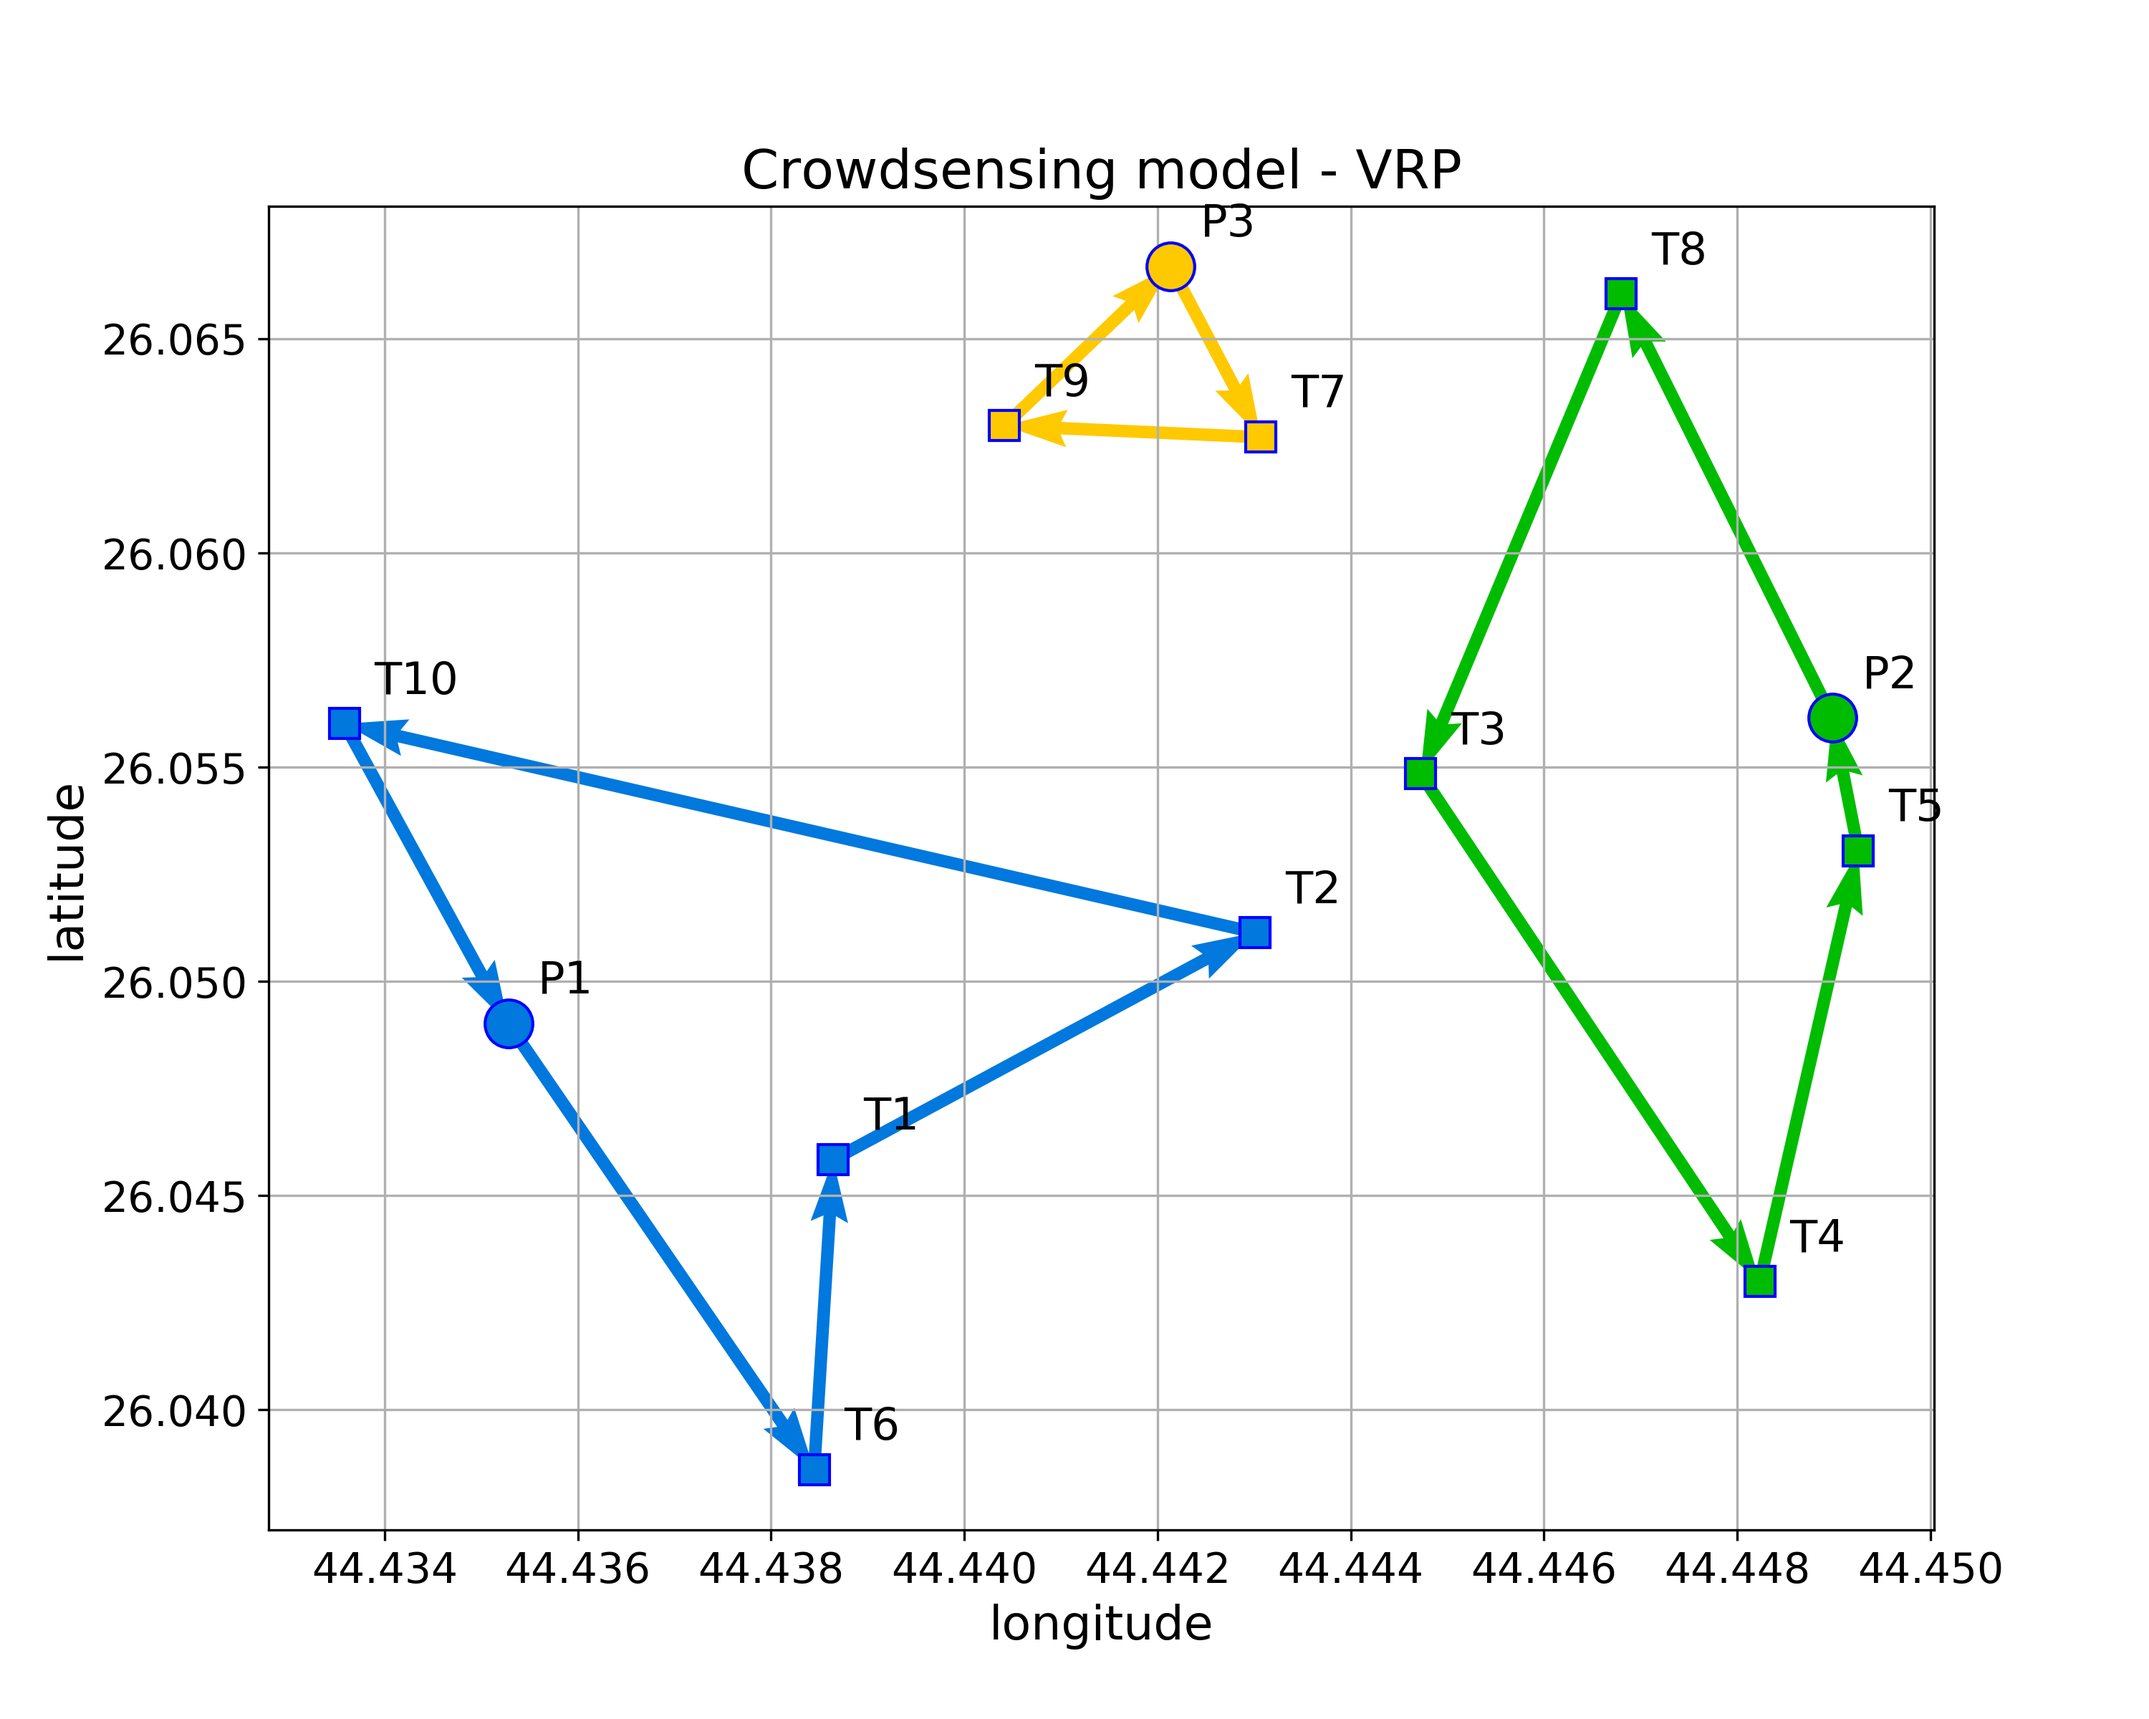
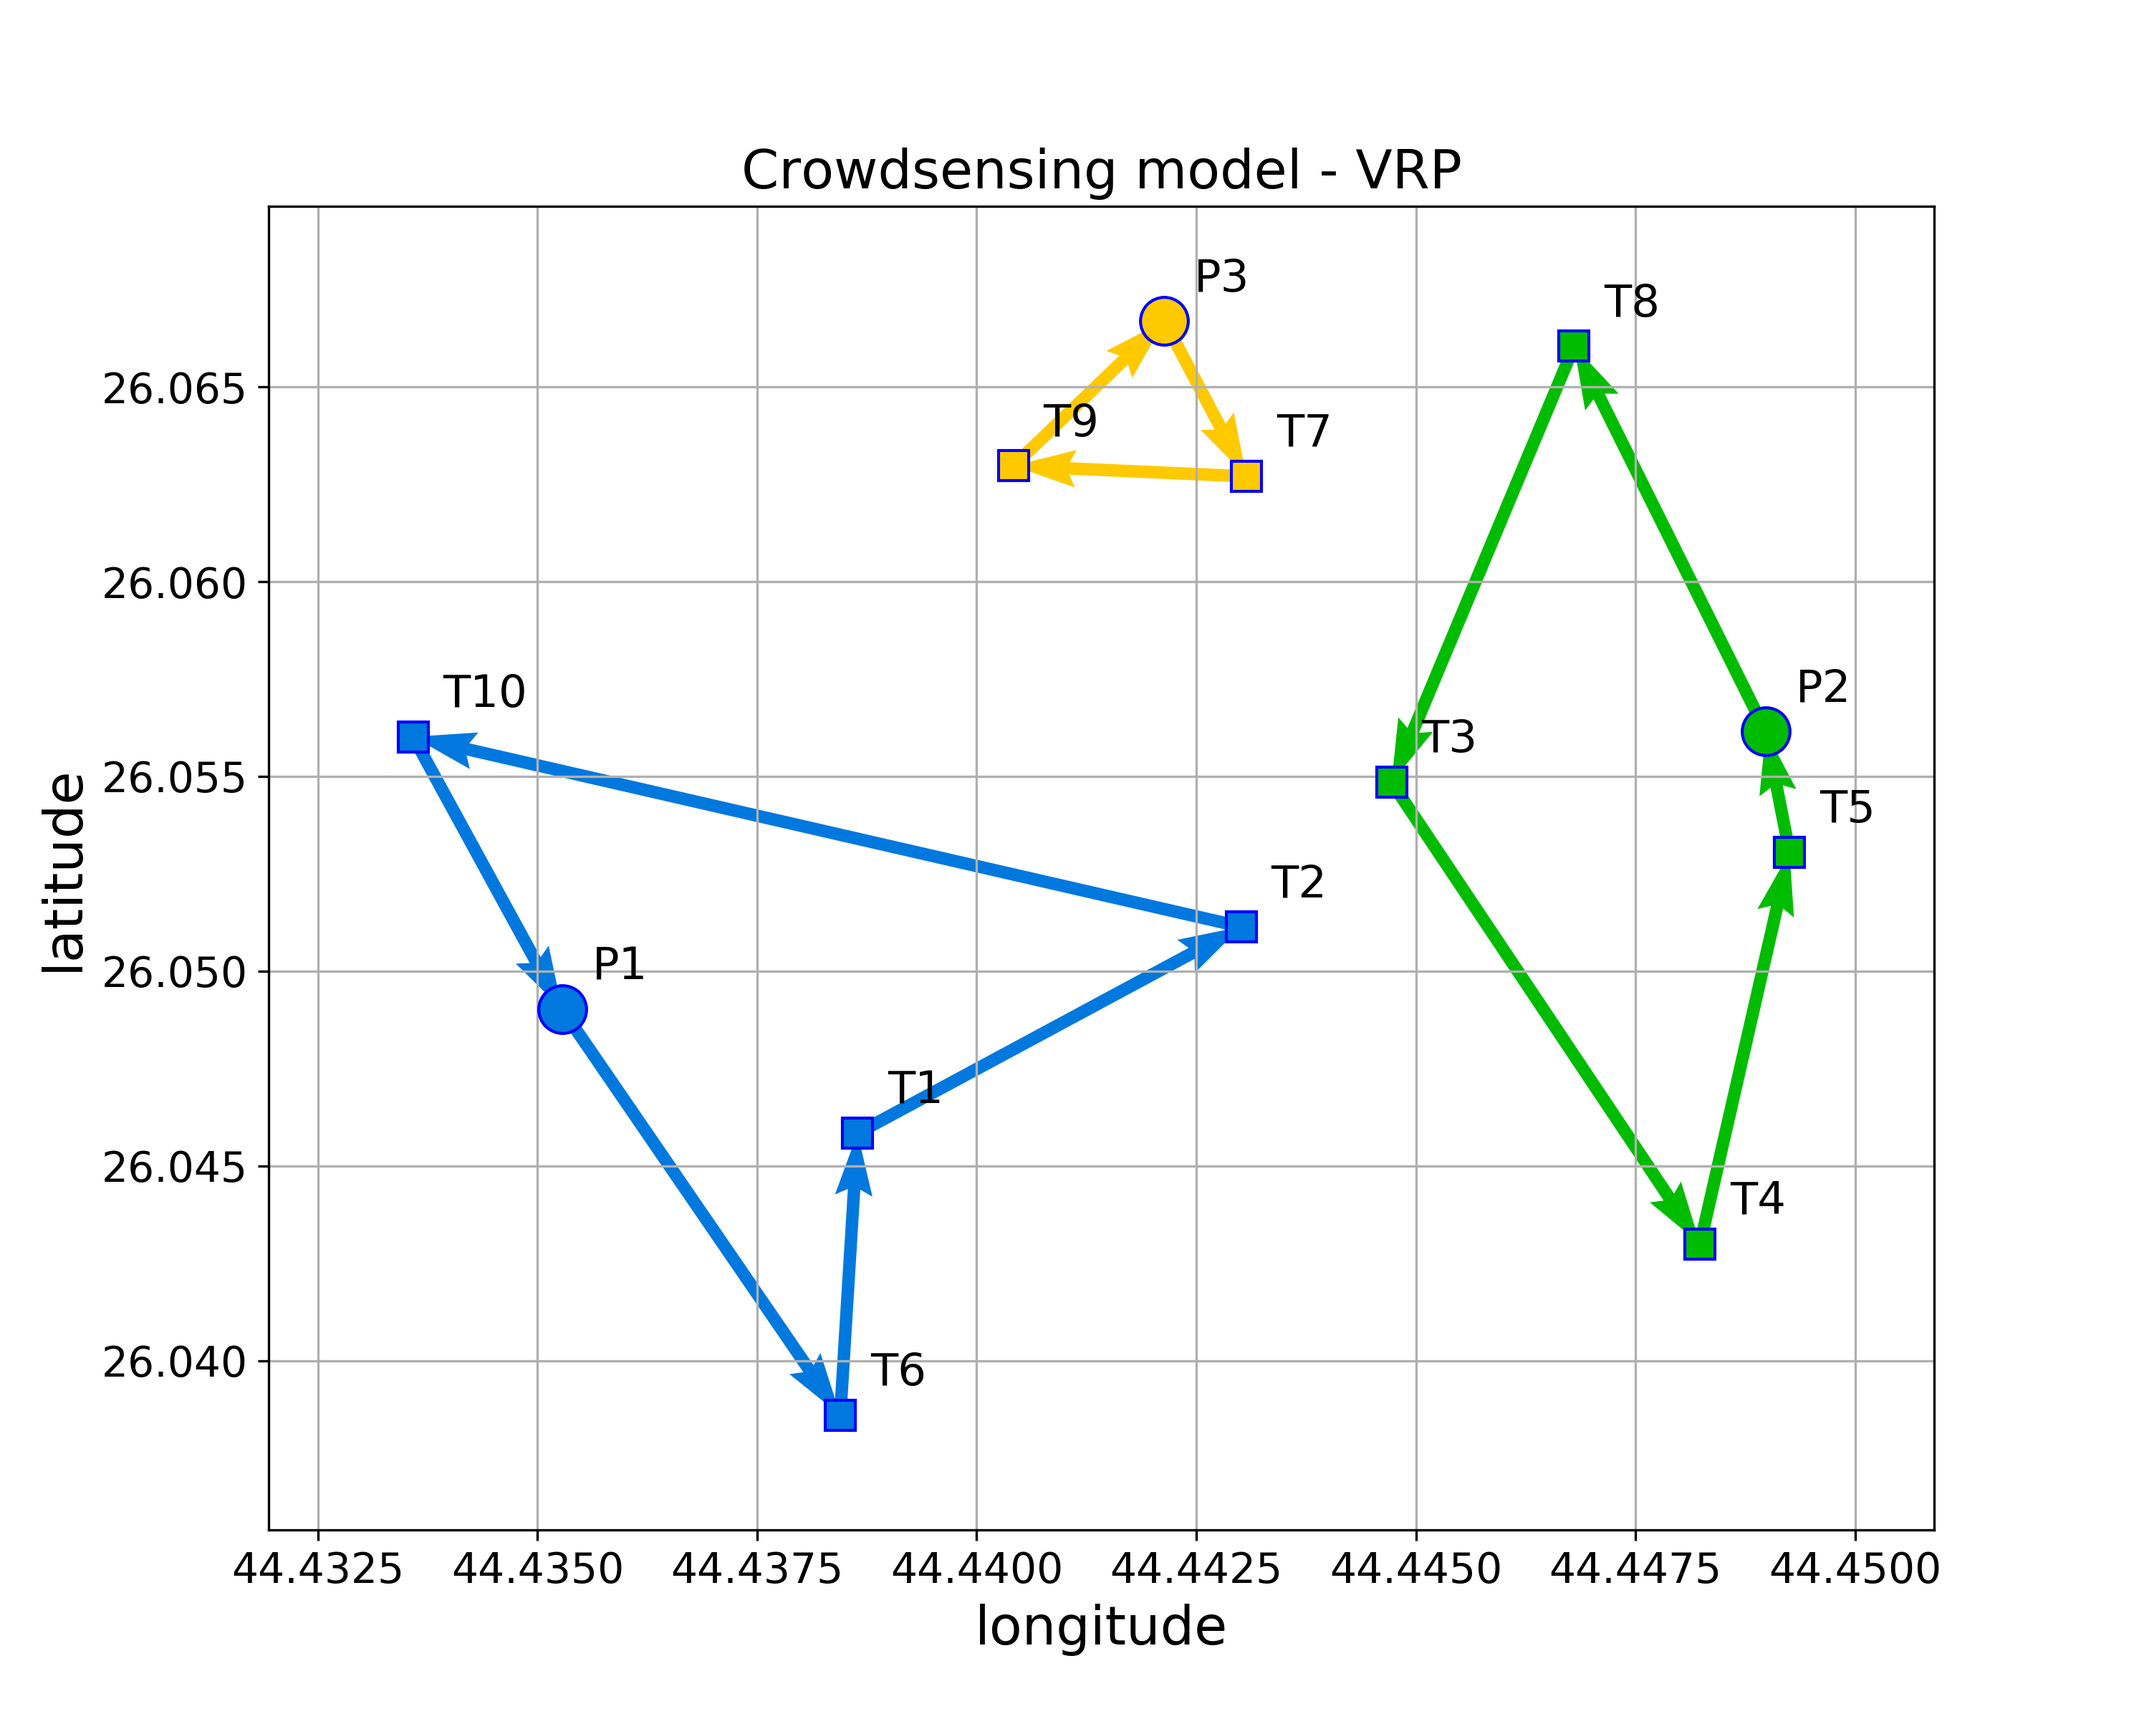
plot routes added zoom out factor

diff --git a/simulator/modules/plotter.py b/simulator/modules/plotter.py
@@ -96,7 +96,7 @@ def plot_vehicle_routes(veh_route, ax1, customers, starts, ends, annotate):
         # width=0.01)
 
 
-def plot_vehicle_routes_wrapper(vehicle_routes, customers_coords, starts, ends):
+def plot_vehicle_routes_wrapper(vehicle_routes, customers_coords, starts, ends, zoom_out):
     # Plotting of the routes in matplotlib.
     figsize = (10, 8)
 
@@ -113,6 +113,15 @@ def plot_vehicle_routes_wrapper(vehicle_routes, customers_coords, starts, ends):
     # plot the routes as arrows
     plot_vehicle_routes(vehicle_routes, ax,
                         customers_coords, starts, ends, True)
+    
+    xlim = ax.get_xlim()
+    ylim = ax.get_ylim()
+    # example of how to zoomout by a factor of 0.1
+    factor = zoom_out
+    new_xlim = (xlim[0] + xlim[1])/2 + np.array((-0.5, 0.5)) * (xlim[1] - xlim[0]) * (1 + factor) 
+    ax.set_xlim(new_xlim)
+    new_ylim = (ylim[0] + ylim[1])/2 + np.array((-0.5, 0.5)) * (ylim[1] - ylim[0]) * (1 + factor) 
+    ax.set_ylim(new_ylim)
 
     plt.grid(zorder=0)
     graph.set_disp("Crowdsensing model - VRP", "longitude", "latitude")

diff --git a/simulator/sim_plot.py b/simulator/sim_plot.py
@@ -221,7 +221,7 @@ def main():
             # quit()
 
             # coords[len(vehicles):]
-            fig = plotter.plot_vehicle_routes_wrapper(vehicle_routes,coords,data['starts'],data['ends'])
+            fig = plotter.plot_vehicle_routes_wrapper(vehicle_routes,coords,data['starts'],data['ends'],0.1)
             fig.savefig("figs/routes.png", dpi=300)
 
         
